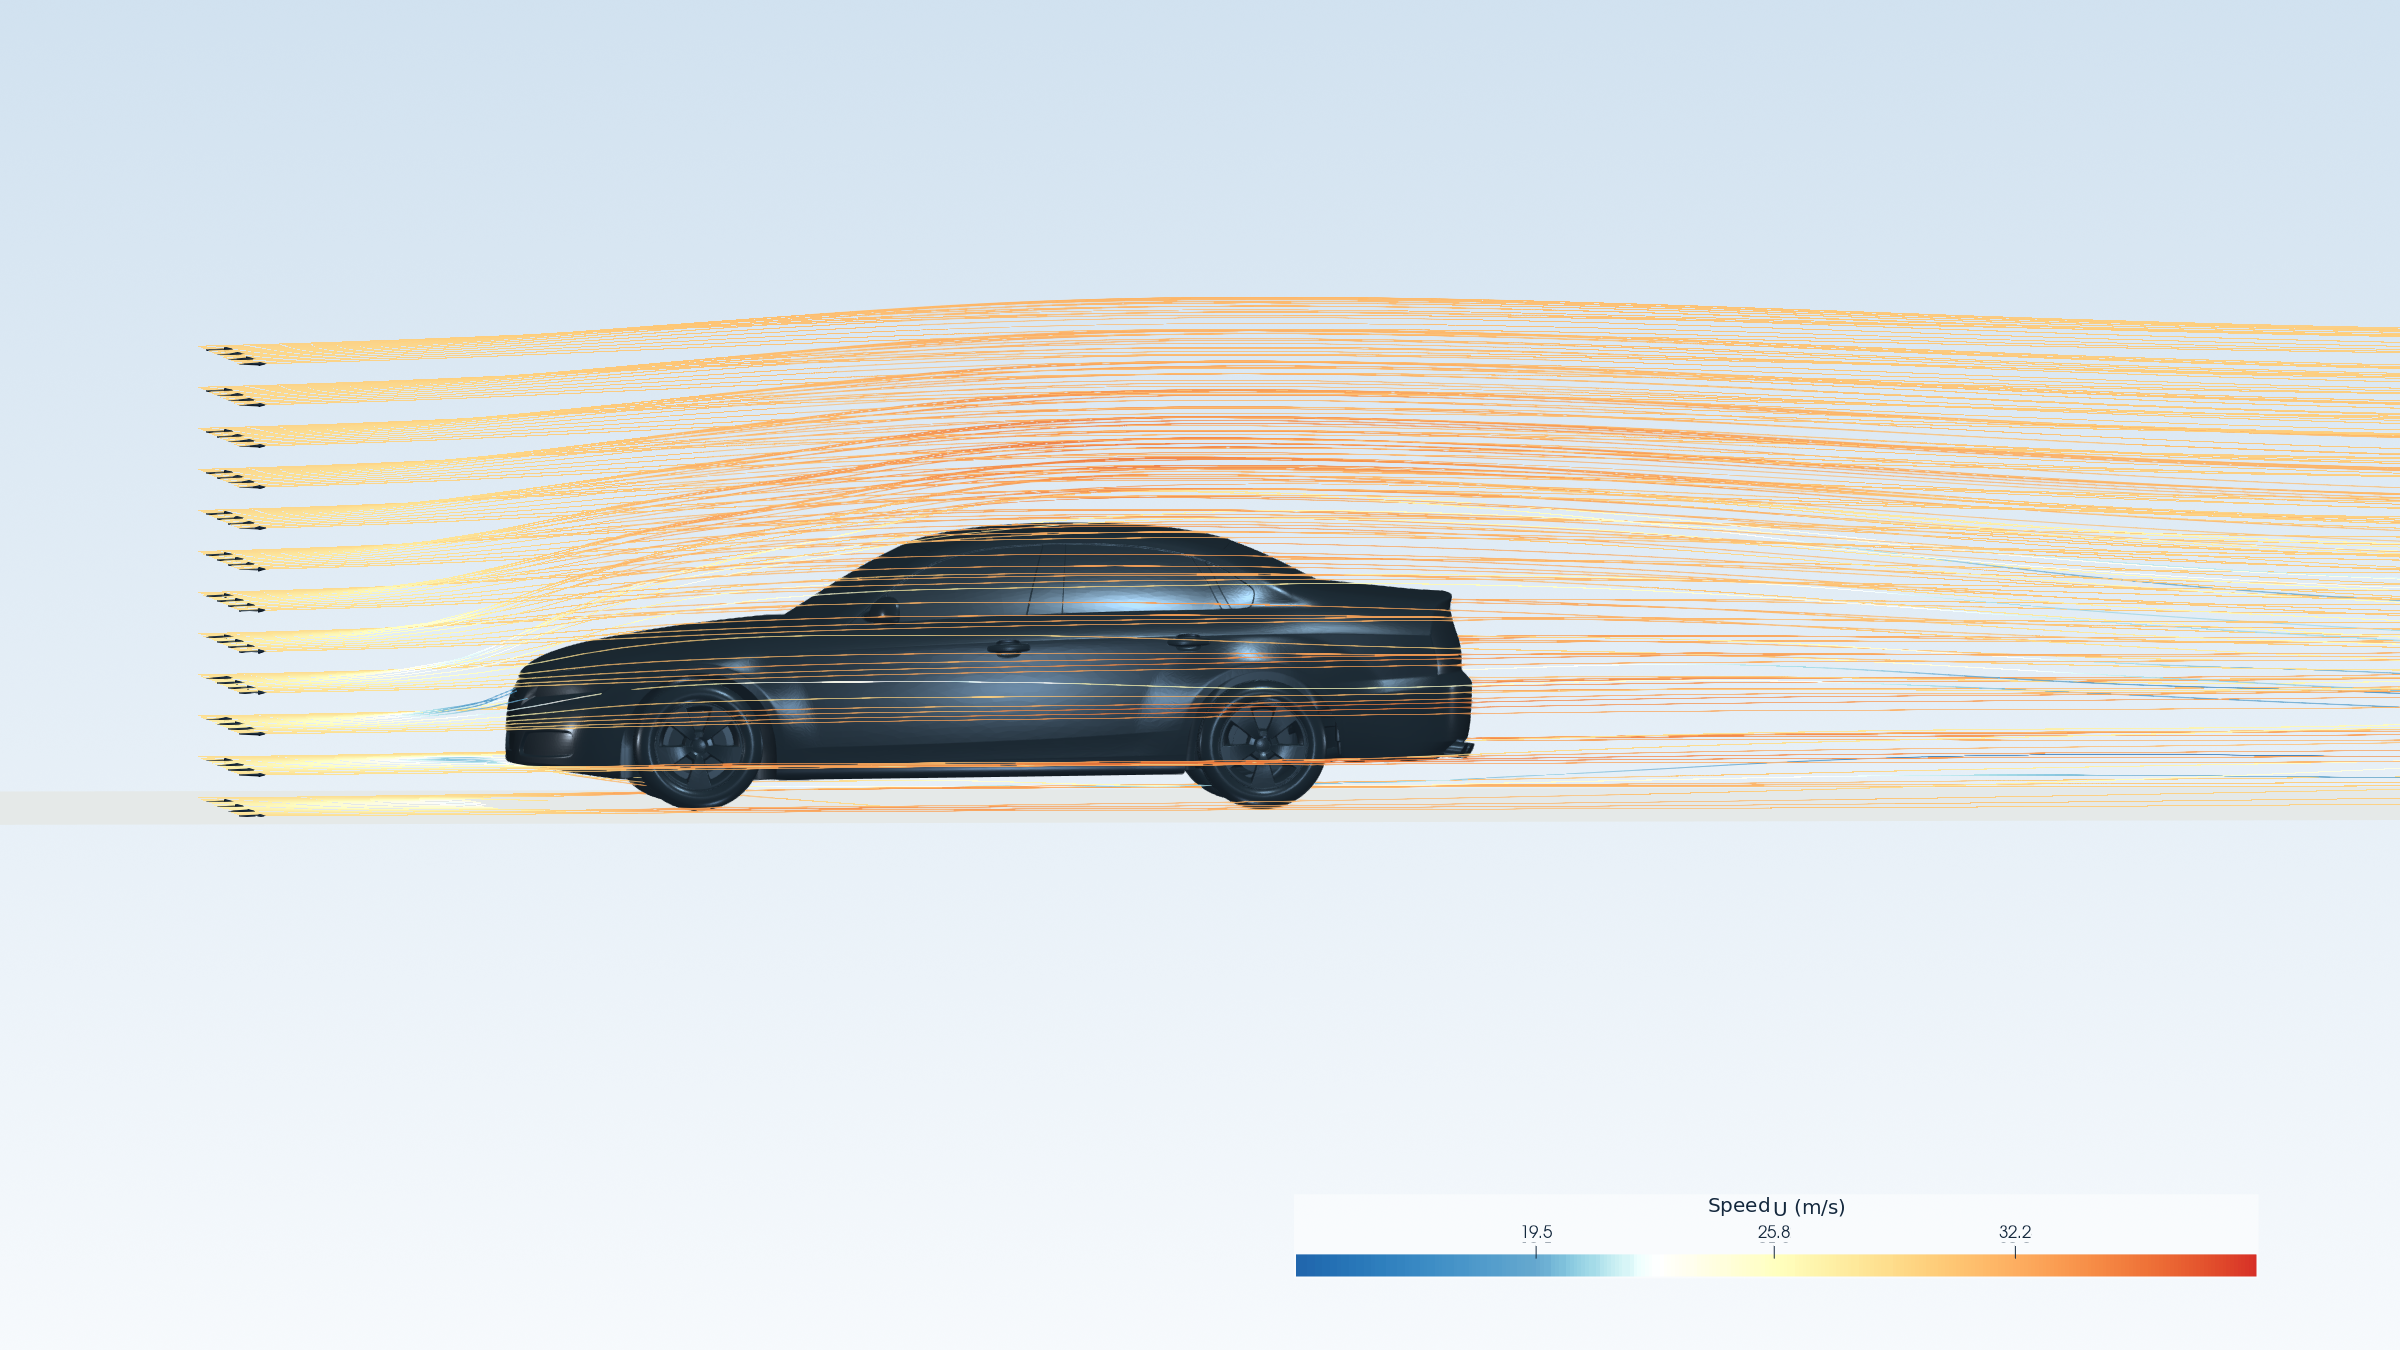
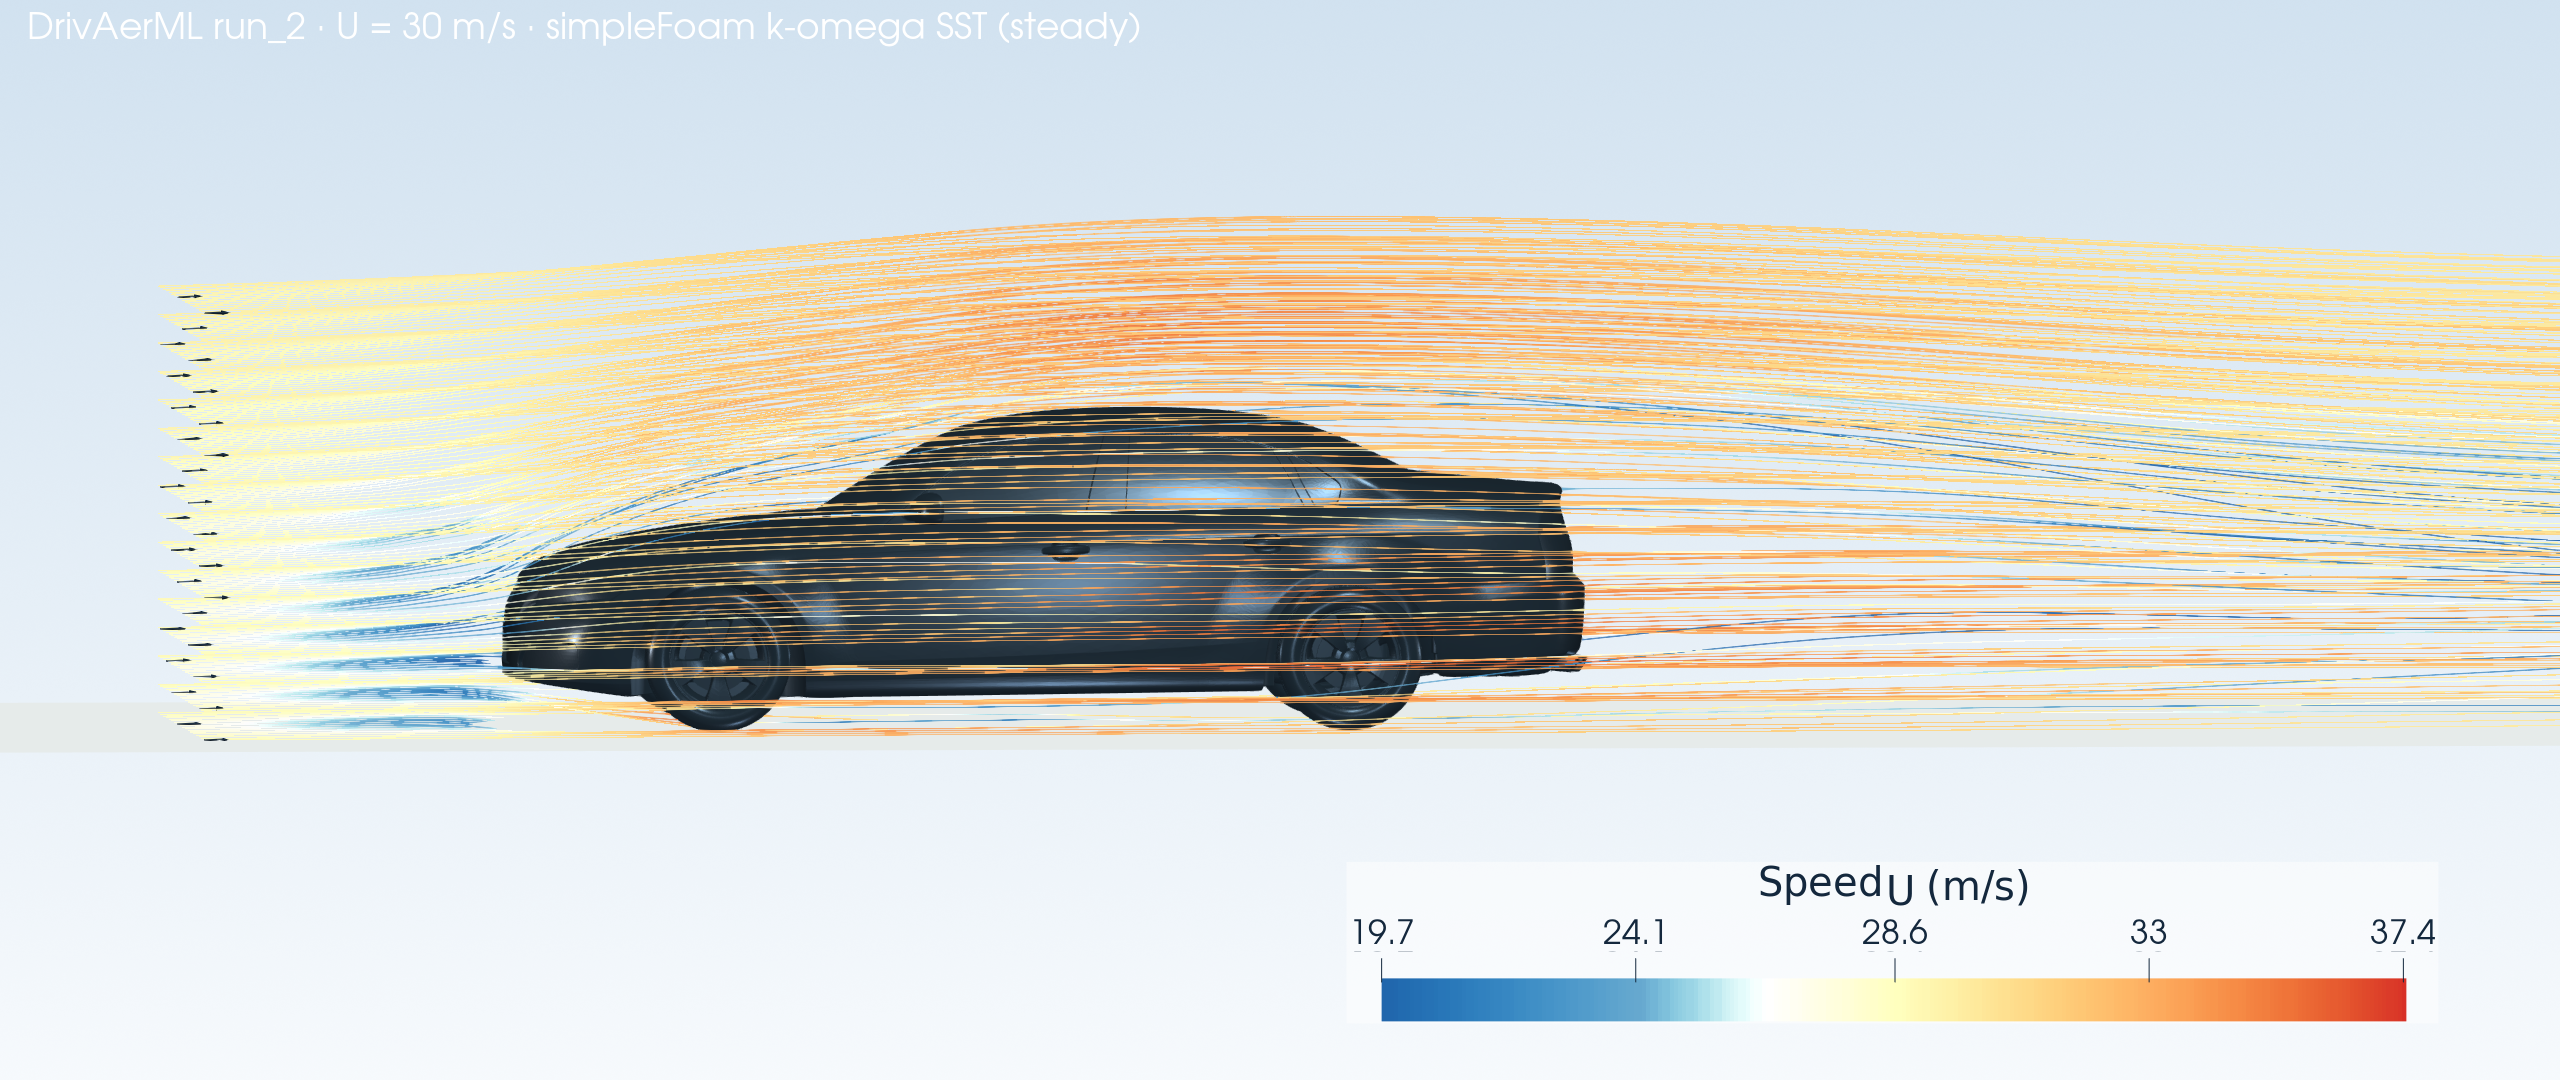
feat: five visual refinements to the HD still-frame template
Found by eyeballing the six published renders (run_1 + run_2, all views):

- colour scale now spans the 1st-99th percentile of streamline |U| samples:
  the raw min-max span let a few separated-wake extremes starve the mid-band
  (where almost all flow lives) of contrast — near-body low speed and roof
  acceleration now read clearly; falls back to min-max when the trimmed
  span collapses (near-uniform samples)
- seed plane: z cap 0.60H above roof -> 0.35H, rows 11 -> 15, cols 15 -> 17 —
  underbody flow paths are visible for the first time instead of distant
  freestream lines crowding the frame
- per-camera frame scale and output size; side view is 2560x1080 panoramic,
  removing the ~40% dead space below the ground plane
- inlet direction arrows: stride 4 -> 10, 0.10H -> 0.085H
- optional top-left case annotation (4th argv), window-anchored; note
  pvpython's default font has no omega glyph — use "k-omega"

run_1/run_2 re-rendered and synced to docs/img/; offline tests 193 green

diff --git a/src/aeroforge/tools/pv_templates/streamline_hd.py b/src/aeroforge/tools/pv_templates/streamline_hd.py
@@ -28,6 +28,7 @@ CASE = sys.argv[1] if len(sys.argv) > 1 else None
 UFREE = float(sys.argv[2]) if len(sys.argv) > 2 else None
 BODY_COLOUR = ([float(value) for value in sys.argv[3].split(",")]
                if len(sys.argv) > 3 else [0.065, 0.16, 0.28])
+LABEL = sys.argv[4] if len(sys.argv) > 4 else ""
 if not CASE:
     raise SystemExit("usage: streamline_hd.py <case_dir> [u_free_mps]")
 if len(BODY_COLOUR) != 3 or any(value < 0.0 or value > 1.0 for value in BODY_COLOUR):
@@ -50,6 +51,7 @@ from paraview.simple import (  # noqa: E402
     Show,
     STLReader,
     StreamTracerWithCustomSource,
+    Text,
     Tube,
 )
 
@@ -148,11 +150,18 @@ def set_blue_red_speed_lut(lut, lower, upper, mode):
 
 
 def fetched_streamline_velocity_range(tracers):
-    """Fetch actual StreamTracer U arrays and return their finite speed range."""
+    """Fetch actual StreamTracer U arrays and return their finite speed range.
+
+    Returns ``(colour_min, colour_max, sampled_min, sampled_max)``.  The
+    colour span is the 1st-99th percentile of the samples: the raw min-max
+    range is stretched by rarely visited extremes (a few separated wake
+    filaments), which starves the mid-band — where almost all of the flow
+    lives — of colour contrast.  The absolute min/max stay available for
+    validation and metadata; colours saturate outside the percentile band.
+    """
     if not tracers:
         raise ValueError("no StreamTracer available for static U colour scale")
-    minimum = None
-    maximum = None
+    speeds = []
     for tracer in tracers:
         data = servermanager.Fetch(tracer)
         if data is None or not data.GetPoints():
@@ -164,13 +173,19 @@ def fetched_streamline_velocity_range(tracers):
             vector = tuple(float(value) for value in vectors.GetTuple(point_id))
             if len(vector) != 3 or any(not math.isfinite(value) for value in vector):
                 raise ValueError("StreamTracer U samples must be finite 3-D vectors")
-            speed = math.sqrt(builtins.sum(value * value for value in vector))
-            minimum = speed if minimum is None else builtins.min(minimum, speed)
-            maximum = speed if maximum is None else builtins.max(maximum, speed)
-    if (minimum is None or maximum is None or not math.isfinite(minimum)
-            or not math.isfinite(maximum) or maximum <= 0.0):
+            speeds.append(math.sqrt(builtins.sum(value * value for value in vector)))
+    if not speeds:
         raise ValueError("StreamTracer U samples contain no positive finite speed")
-    return minimum, maximum
+    speeds.sort()
+    sampled_min, sampled_max = speeds[0], speeds[-1]
+    if not math.isfinite(sampled_min) or not math.isfinite(sampled_max) or sampled_max <= 0.0:
+        raise ValueError("StreamTracer U samples contain no positive finite speed")
+
+    def percentile(fraction):
+        index = min(len(speeds) - 1, max(0, int(round(fraction * (len(speeds) - 1)))))
+        return speeds[index]
+
+    return percentile(0.01), percentile(0.99), sampled_min, sampled_max
 
 
 def fetched_streamline_velocity_max(tracers):
@@ -178,8 +193,14 @@ def fetched_streamline_velocity_max(tracers):
     return fetched_streamline_velocity_range(tracers)[1]
 
 
-def incoming_yz_seed(domain_bounds, vehicle_bounds, columns=15, rows=11):
-    """Return a finite near-body YZ plane, not the full-domain inlet."""
+def incoming_yz_seed(domain_bounds, vehicle_bounds, columns=17, rows=15):
+    """Return a finite near-body YZ plane, not the full-domain inlet.
+
+    The plane tops out at 0.35 body heights above the roof (down from 0.60):
+    higher seeds only produce distant freestream lines that crowd the frame,
+    while the extra rows are spent where flow structure actually lives —
+    underbody and lower body.
+    """
     domain = tuple(float(value) for value in domain_bounds)
     vehicle = tuple(float(value) for value in vehicle_bounds)
     if len(domain) != 6 or len(vehicle) != 6:
@@ -200,7 +221,7 @@ def incoming_yz_seed(domain_bounds, vehicle_bounds, columns=15, rows=11):
     y_min = max(dy0 + eps, vy0 - 0.20 * width)
     y_max = min(dy1 - eps, vy1 + 0.20 * width)
     z_min = max(dz0 + eps, vz0 - eps)
-    z_max = min(dz1 - eps, vz1 + 0.60 * height)
+    z_max = min(dz1 - eps, vz1 + 0.35 * height)
     if y_min >= y_max or z_min >= z_max:
         raise ValueError("near-body seed plane has no valid internalMesh area")
     return {
@@ -342,15 +363,20 @@ def make_stream_tubes():
 stream_displays = (make_stream_tubes(),)
 
 try:
-    sampled_u_min, sampled_u_max = fetched_streamline_velocity_range(stream_tracers)
+    colour_floor, colour_ceiling, sampled_u_min, sampled_u_max = (
+        fetched_streamline_velocity_range(stream_tracers))
     validate_sampled_speed(sampled_u_max, source_u_max)
 except ValueError as exc:
     raise SystemExit(f"[hd] cannot determine static U colour range: {exc}")
-UMAX = static_velocity_color_max(sampled_u_max)
-COLOUR_MODE = velocity_colour_scale_mode(sampled_u_min, UMAX)
-COLOUR_MIN = sampled_u_min
+# Percentile trimming only helps when the sample distribution is skewed; if
+# the trimmed span collapses (near-uniform speeds) keep the full min-max span.
+if colour_ceiling - colour_floor < 0.35 * (sampled_u_max - sampled_u_min):
+    colour_floor, colour_ceiling = sampled_u_min, sampled_u_max
+UMAX = static_velocity_color_max(colour_ceiling)
+COLOUR_MODE = velocity_colour_scale_mode(colour_floor, UMAX)
+COLOUR_MIN = colour_floor
 print(f"[hd] sampled |U| range: {sampled_u_min:.6g} .. {sampled_u_max:.6g} m/s; "
-      f"colour range: {COLOUR_MIN:.6g} .. {UMAX:.6g} m/s ({COLOUR_MODE})")
+      f"colour range (1st-99th pct): {COLOUR_MIN:.6g} .. {UMAX:.6g} m/s ({COLOUR_MODE})")
 
 # Use the same finite incoming plane for sparse direction arrows.  The arrow
 # length is fixed (no magnitude scaling); only colour encodes |U|.
@@ -360,9 +386,9 @@ seed_sampled.UpdatePipeline()
 seed_arrows = Glyph(Input=seed_sampled, GlyphType="Arrow")
 setp(seed_arrows, ("OrientationArray", "orientation_array"), ["POINTS", "U"])
 setp(seed_arrows, ("ScaleArray", "scale_array"), ["POINTS", "No scale array"])
-setp(seed_arrows, ("ScaleFactor", "scale_factor"), 0.10 * height)
+setp(seed_arrows, ("ScaleFactor", "scale_factor"), 0.085 * height)
 setp(seed_arrows, ("GlyphMode", "glyph_mode"), "Every Nth Point")
-setp(seed_arrows, ("Stride", "stride"), 4)
+setp(seed_arrows, ("Stride", "stride"), 10)
 seed_arrows.UpdatePipeline()
 arrow_display = Show(seed_arrows, view)
 arrow_neutral_colour(arrow_display)
@@ -409,9 +435,11 @@ setp(bar, ("DrawFrame",), 1)
 bar.Visibility = 1
 
 
-def save_shot(position, focal_point, filename):
+def save_shot(position, focal_point, filename, frame_scale=None,
+              image_size=(2400, 1350)):
     camera = view.GetActiveCamera()
-    frame_scale = max(1.20 * height, 0.70 * length)
+    if frame_scale is None:
+        frame_scale = max(1.20 * height, 0.70 * length)
     # Set both the RenderView proxy properties and the VTK camera.  The proxy
     # is what ParaView reapplies on the first Render after a pipeline update;
     # setting only GetActiveCamera() lets that render silently ResetCamera().
@@ -428,9 +456,23 @@ def save_shot(position, focal_point, filename):
     Render(view)
     output = os.path.join(case, "results", filename)
     os.makedirs(os.path.dirname(output), exist_ok=True)
-    SaveScreenshot(output, view, ImageResolution=[2400, 1350],
+    SaveScreenshot(output, view, ImageResolution=list(image_size),
                    TransparentBackground=0)
     print("[hd] saved:", output)
+
+
+# One-line case annotation, top-left, window-anchored so it never overlaps
+# the vehicle in any camera.  Only shown when a label is provided.
+if LABEL:
+    note = Text()
+    note.Text = LABEL
+    note_display = Show(note, view)
+    setp(note_display, ("Position",), [0.018, 0.958])
+    text_prop = getattr(note_display, "TextProperties", None)
+    if text_prop is not None:
+        setp(text_prop, ("FontFactor", "FontSize"), 17)
+        setp(text_prop, ("Color",), [0.08, 0.16, 0.24])
+        setp(text_prop, ("Opacity",), 0.92)
 
 
 # The first render lets ParaView initialise the renderer.  Without this
@@ -441,18 +483,24 @@ Render(view)
 # The solver convention is flow from x-min to x-max.
 save_shot(
     (cx - 1.28 * length, cy - 1.48 * width, z0 + 0.78 * height),
-    (cx + 0.05 * length, cy, z0 + 0.43 * height),
+    (cx + 0.05 * length, cy, z0 + 0.47 * height),
     "streamline_hd_front.png",
+    frame_scale=max(1.05 * height, 0.62 * length),
 )
 save_shot(
     (cx + 1.40 * length, cy - 1.30 * width, z0 + 1.02 * height),
-    (x1 + 0.36 * length, cy, z0 + 0.52 * height),
+    (x1 + 0.36 * length, cy, z0 + 0.55 * height),
     "streamline_hd_wake.png",
+    frame_scale=max(1.05 * height, 0.62 * length),
 )
+# Side view is panoramic: a wide 21:9-ish frame keeps the full streamline
+# run while cutting the dead space below the ground plane.
 save_shot(
-    (cx + 0.12 * length, cy - 3.25 * width, z0 + 0.61 * height),
-    (cx + 0.22 * length, cy, z0 + 0.46 * height),
+    (cx + 0.12 * length, cy - 3.25 * width, z0 + 0.78 * height),
+    (cx + 0.22 * length, cy, z0 + 0.58 * height),
     "streamline_hd_side.png",
+    frame_scale=max(0.95 * height, 0.50 * length),
+    image_size=(2560, 1080),
 )
 
 with open(os.path.join(case, "results", "static_velocity_metadata.json"), "w", encoding="utf-8") as handle:
@@ -464,6 +512,8 @@ with open(os.path.join(case, "results", "static_velocity_metadata.json"), "w", e
         "colour_scale_min_mps": COLOUR_MIN, "colour_scale_max_mps": UMAX,
         "colour_scale_mode": COLOUR_MODE, "colour_scale_title": bar.Title,
         "colour_preset": "blue-cyan-yellow-red (#2166ac to #d73027)",
-        "colour_scale_source": "full-resolution streamline U samples plus 8% headroom",
+        "colour_scale_source": ("1st-99th percentile of full-resolution "
+                                "streamline U samples plus 8% headroom"),
+        "case_label": LABEL,
         "seed_plane": seed_window,
     }, handle, indent=2)

diff --git a/HANDOVER.md b/HANDOVER.md
@@ -3,7 +3,32 @@
 > 写给接手的 AI / 工程师：本文档交代**已做工作、当前真实状态、已知坑、未完成事项**，
 > 并列出**需要复核的疑点**与验证方法。请带着审查眼光阅读——前任（我）的方案
 > 可能有误，欢迎推翻。
-> 最后更新：2026-09-30（v0.5.0：WSL 并行求解链路 `--n-parallel` + processor 力系数解析 + TUTORIAL 扩写；此前 2026-08-31 工作区清理、交互比例修正、DrivAerML run_2）。
+> 最后更新：2026-09-30（v0.5.0：WSL 并行求解链路 `--n-parallel` + processor 力系数解析 + TUTORIAL 扩写；静帧渲染模板五项改进——分位数色标/构图/车底种子/箭头/工况标注）。
+
+## 0.12. 静帧渲染模板改进（2026-09-30）
+
+对 `streamline_hd.py`（静帧三机位）目视审查后修复的五个系统性缺陷，run_1/run_2
+六张图已重渲并同步 `docs/img/`：
+
+1. **色标改为样本 1st-99th 分位区间**：原 min-max 线性拉伸被少量尾流极端值
+   主导，中段（U∞ 附近，绝大多数流线所在）色彩对比近乎为零（整图全橙）。
+   现在 U∞ 附近落在白色锚点，车底/尾流低速呈蓝、车顶加速呈红；分位数裁剪
+   幅度过小时（样本近均匀）自动回退完整 min-max。绝对 min/max 仍记录于
+   `static_velocity_metadata.json`。
+2. **种子面 z 上限从车顶+0.60H 收到 +0.35H，行数 11→15、列 15→17**：高空种子
+   只产生远处自由流线挤占画面；行数花在车底/车身下部——车底低速流路首次可见。
+3. **构图**：save_shot 支持逐机位 frame_scale 与输出分辨率；side 改 2560×1080
+   宽幅（原 16:9 下垂直方向 40% 是地面以下空白）；front/wake scale 收紧、
+   焦点略上移。
+4. **入口方向箭头**：stride 4→10、尺寸 0.10H→0.085H，不再是噪点。
+5. **工况标注**：第 4 个可选 argv 传入左上角标注文本（如
+   "DrivAerML run_2 · U∞ = 30 m/s · simpleFoam k-omega SST (steady)"），
+   窗口锚定不随相机移动；缺省不显示。**注意 pvpython 默认字体无 ω 字形**，
+   标注里用 "k-omega"。`windtunnel_viz.render_case` 尚未透传 label（管线侧
+   待接 prompt 对象名），目前手动渲染与模板能力就绪。
+
+动画模板（streamline_animation.py）与交互 HTML 本轮未动——其种子面/色标有
+独立测试锁定，且 120 帧重渲成本高；如需对齐观感，按 §0.12 同样口径单独做。
 
 ## 0.11. 并行求解链路（2026-09-30，v0.5.0）
 
